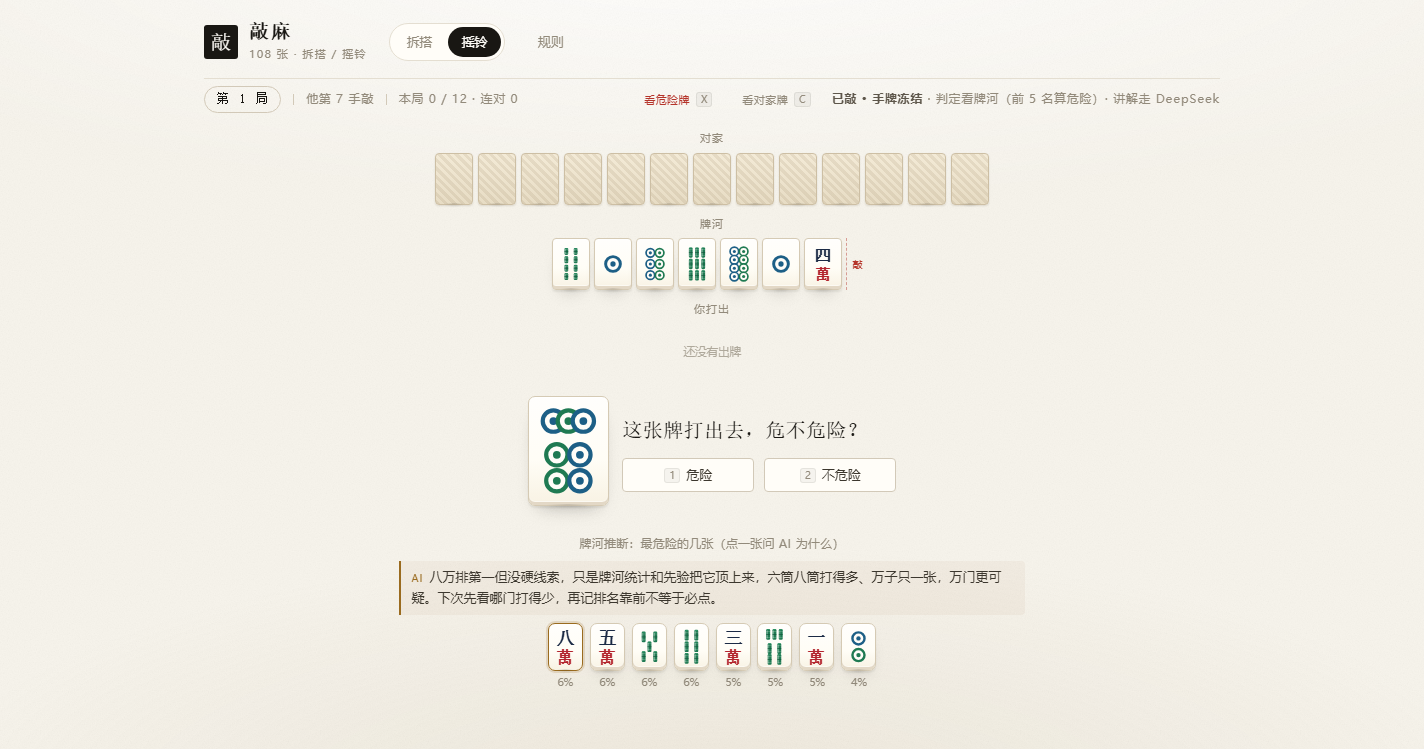
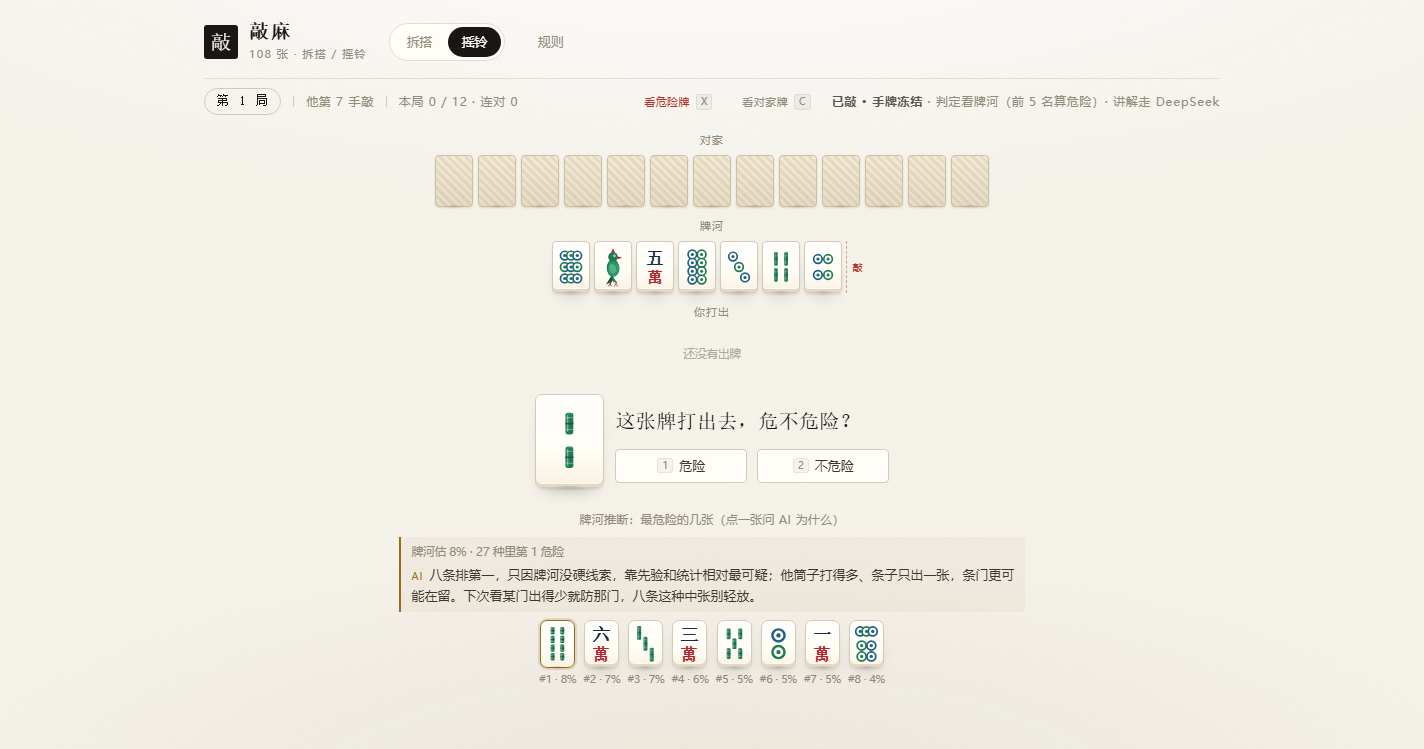
摇铃：危险牌榜加名次、本地结论与面板内滚动

diff --git a/public/style.css b/public/style.css
@@ -1369,3 +1369,7 @@ body.mode-read #replayBtn, body.mode-read #newBtn { display: none; }
 
 .danger-why .why-local { font-size: 11.5px; color: var(--muted); margin-bottom: 3px; }
 .danger-why .why-ai { font-size: 13px; line-height: 1.6; color: var(--ink-2); }
+
+.read-area.danger-on .quiz { padding: 0; gap: 12px; }
+.read-area.danger-on .quiz-tile .tile { width: calc(var(--tw) * 1.15); height: calc(var(--th) * 1.15); }
+.read-area.danger-on .danger-why { max-height: 84px; overflow-y: auto; }
